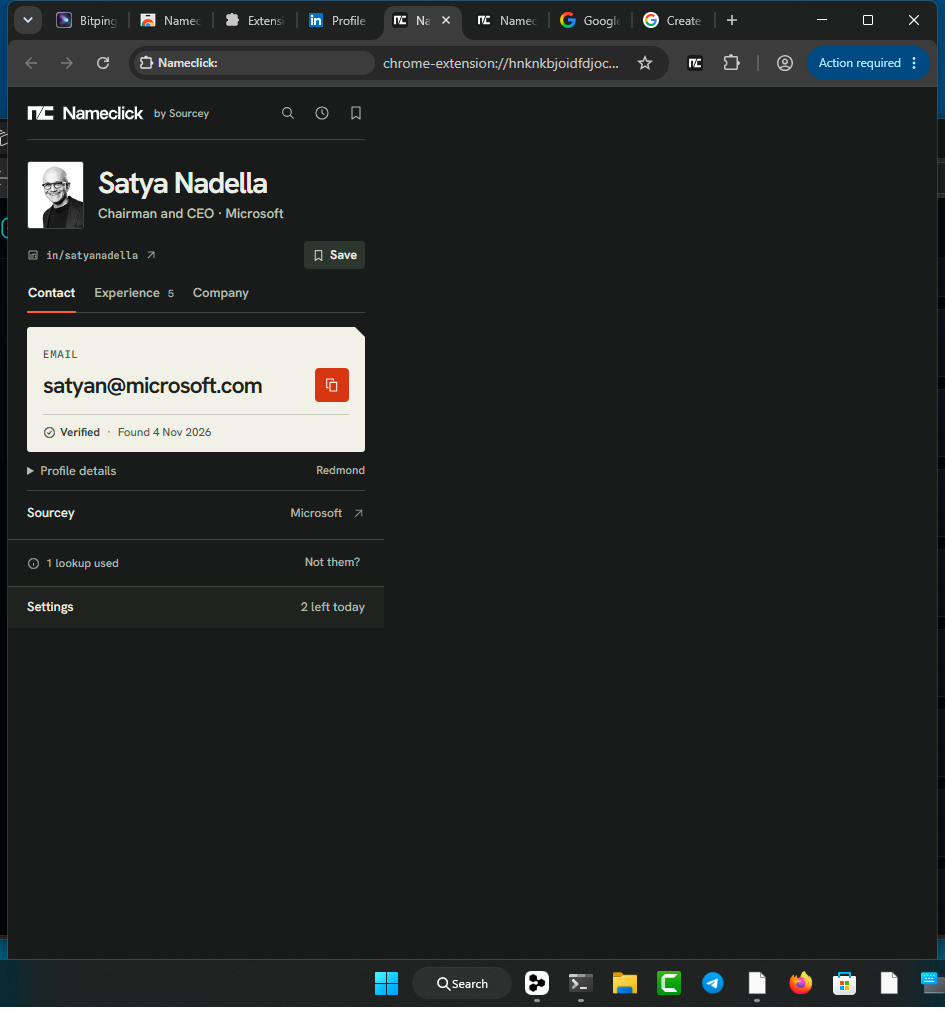
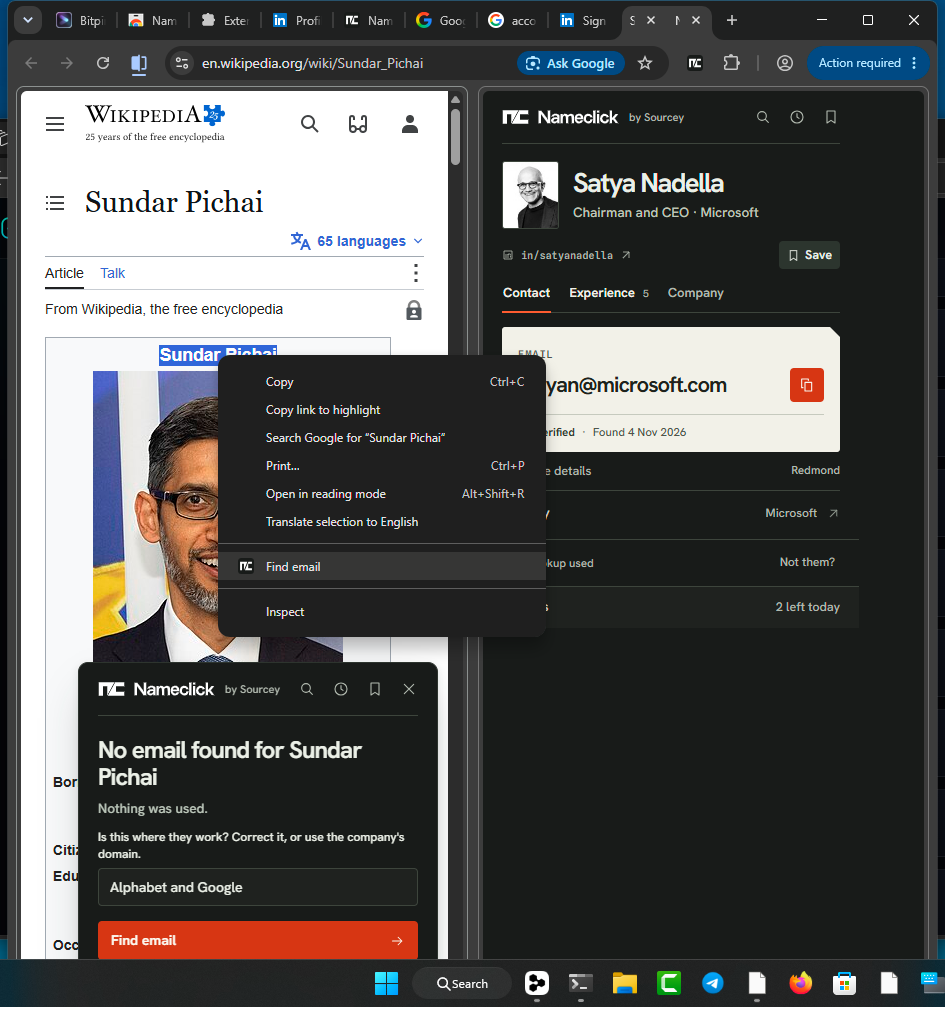
Sundar Pichai selection-flow miss evidence

diff --git a/report.md b/report.md
@@ -1,7 +1,7 @@
 # Nameclick dogfood report — Frantic claim 9b282aed (bounty 147)
 
-- **What I tried:** Installed Nameclick 0.2.0 from the Chrome Web Store into Google Chrome 157 (fresh automation profile), signed in with Google, then ran one lookup through the extension popup for a LinkedIn profile URL I chose: `https://www.linkedin.com/in/satyanadella/` (Satya Nadella, Microsoft).
-- **What happened:** The popup accepted the profile link, showed "Find email", and after one click returned a completed card: Satya Nadella, Chairman and CEO · Microsoft, verified email `satyan@microsoft.com`, "1 lookup used / 2 left today". A found result, not a no-match.
-- **Specific observation:** The result card exposes the raw enrichment fields inline — title/employer line, `in/satyanadella` handle echo, a Verified badge with a "Found 4 Nov 2026" provenance line, location (Redmond), and Experience/Company tabs — so the reviewer can check the same record server-side without leaving the popup.
-- **Environment:** Windows 11, Google Chrome 157.0.8103.40, extension v0.2.0 installed from Chrome Web Store (source verified on chrome://extensions), lookup driven through the extension's own popup UI on 2026-11-11 ~23:27 UTC.
-- **One friction point:** The first "Continue with Google" click inside the popup tab silently did nothing until the OAuth account-chooser page was given a real gesture sequence; after consent the popup flipped to the authenticated "3 left today" state without a reload.
+- **What I tried:** Installed Nameclick 0.2.0 from the Chrome Web Store into Google Chrome 157, signed in with Google, opened the Wikipedia article for Sundar Pichai, selected the name "Sundar Pichai" in the lead, right-clicked and chose the extension's "Find email" context-menu item — the selected-name flow.
+- **What happened:** The Nameclick card opened on the page and completed a lookup: "No email found for Sundar Pichai — Nothing was used." It then asked to confirm the employer, pre-filling "Alphabet and Google" from the page context, with a "Find email >" retry. A completed no-match, which the bounty counts.
+- **Specific observation:** The miss card still shows the resolved employer guess ("Is this where they work? Alphabet and Google") and offers a one-click corrected retry — useful because a bare name selection has no company signal of its own; the page context supplied it.
+- **Environment:** Windows 11, Google Chrome 157.0.8103.40, extension v0.2.0 installed from Chrome Web Store (chrome://extensions shows Source: Chrome Web Store), lookup driven through the extension's own context-menu/selected-name UI on 2026-11-11 ~23:39 UTC.
+- **One friction point:** The context-menu "Find email" item only appears when text is actually selected on the page; with no selection the menu shows no Nameclick entry at all.
